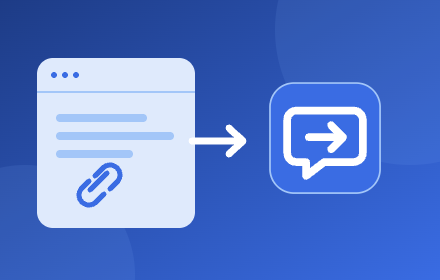
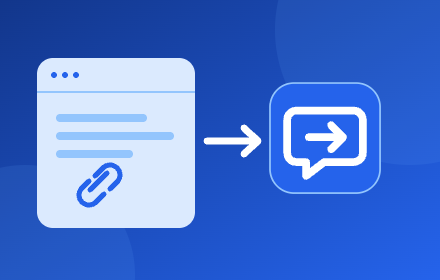
Enable automatic closing by default and center promotional arrow

Changed region(s): [[0.5023, 0.4286, 0.5909, 0.5714], [0.4136, 0.4857, 0.4727, 0.5429]]

diff --git a/tests/options.test.ts b/tests/options.test.ts
@@ -62,6 +62,41 @@ test("prompt defaults load without overwriting saved text or an intentionally em
   assert.equal(fields.optionalText.value, defaultPrompt);
 });
 
+test("automatic closing defaults load without writes and preserve saved choices across reloads", async () => {
+  let stored: Record<string, unknown> = {};
+  const storage: SettingsStorage = {
+    async get() { return stored; },
+    async set(items) { stored = items; }
+  };
+  const fields = optionsFields();
+  assert.equal(await loadOptions(fields, storage), true);
+  assert.equal(fields.autoClose.checked, true);
+  assert.equal(fields.autoClose.disabled, false);
+  assert.deepEqual(stored, {});
+
+  for (const autoClose of [false, true]) {
+    fields.autoClose.checked = autoClose;
+    assert.equal(await saveOptions(fields, storage, () => 0), true);
+    for (let reload = 0; reload < 2; reload++) {
+      const reopened = optionsFields();
+      assert.equal(await loadOptions(reopened, storage), true);
+      assert.equal(reopened.autoClose.checked, autoClose);
+    }
+  }
+
+  stored = { settings: { autoSubmit: false } };
+  assert.equal(await loadOptions(fields, storage), true);
+  assert.equal(fields.autoClose.checked, true);
+  assert.equal(fields.autoClose.disabled, true);
+  assert.deepEqual(stored, { settings: { autoSubmit: false } });
+
+  stored = {};
+  assert.equal(await loadOptions(fields, storage), true);
+  assert.equal(fields.autoClose.checked, true);
+  assert.equal(fields.autoClose.disabled, false);
+  assert.deepEqual(stored, {});
+});
+
 test("tracking cleanup help is associated with its checkbox", () => {
   const html = readFileSync("options.html", "utf8");
 

diff --git a/tests/prompt.test.ts b/tests/prompt.test.ts
@@ -198,9 +198,22 @@ test("missing or invalid persisted settings fall back safely", () => {
       placement: "prepend",
       stripTrackingParameters: true,
       autoSubmit: true,
-      autoClose: false
+      autoClose: true
     }
   );
+});
+
+test("automatic closing defaults on only when absent and preserves explicit choices", () => {
+  assert.equal(DEFAULT_SETTINGS.autoClose, true);
+  for (const settings of [undefined, {}, { autoSubmit: false }]) {
+    assert.equal(normalizeSettings(settings).autoClose, true);
+  }
+  for (const autoClose of [true, false]) {
+    assert.equal(normalizeSettings({ autoClose }).autoClose, autoClose);
+  }
+  for (const invalid of [null, "true", "false", 0, 1]) {
+    assert.equal(normalizeSettings({ autoClose: invalid as unknown as boolean }).autoClose, false);
+  }
 });
 
 test("automatic submission and closing settings are restored", () => {

diff --git a/tests/background.test.ts b/tests/background.test.ts
@@ -156,7 +156,6 @@ test("the background dispatch lifecycle binds, advances, and consumes state", as
     assert.ok(tabUpdatedListener);
     assert.ok(tabRemovedListener);
 
-    localSettings = { autoClose: true };
     actionClickListener({
       id: 10,
       url: "https://example.com/article?utm_source=newsletter&item=42#details"
@@ -179,6 +178,7 @@ test("the background dispatch lifecycle binds, advances, and consumes state", as
     const pending = dispatchEntries(session)[0];
     assert.ok(pending);
     assert.equal(pending.status, "pending");
+    assert.equal(pending.autoClose, true);
     assert.equal(pending.sourceTabId, 10);
     assert.equal(pending.targetTabId, 20);
     assert.equal(lastBadgeText(badgeUpdates, 10), "…");

diff --git a/src/prompt.ts b/src/prompt.ts
@@ -13,7 +13,7 @@ Keep the depth proportional to the material. Don't manufacture false balance or 
   placement: "prepend",
   stripTrackingParameters: true,
   autoSubmit: true,
-  autoClose: false
+  autoClose: true
 };
 
 const CHATGPT_BASE_URL = "https://chatgpt.com/";
@@ -112,7 +112,7 @@ export function normalizeSettings(value: Partial<Settings> | undefined): Setting
     placement: value?.placement === "append" ? "append" : "prepend",
     stripTrackingParameters: value?.stripTrackingParameters !== false,
     autoSubmit: value?.autoSubmit !== false,
-    autoClose: value?.autoClose === true
+    autoClose: value?.autoClose === undefined ? DEFAULT_SETTINGS.autoClose : value.autoClose === true
   };
 }
 

diff --git a/store/validation.md b/store/validation.md
@@ -1,11 +1,11 @@
 # Initial unlisted release preparation — validation record
 
-Recorded September 27, 2026 for version 0.1.0. This is local preparation, not store approval or a complete live ChatGPT release sign-off.
+Recorded September 27, 2026 for version 0.1.0, including the refined default prompt and automatic closing enabled by default. This is local preparation, not store approval or a complete live ChatGPT release sign-off.
 
 ## Artifact
 
 - Archive: `release/share-to-chatgpt-0.1.0.zip` (generated, ignored by Git).
[2 lines of base64/hex data omitted]
 - Contains 10 runtime files, with `manifest.json` at the root. No source maps, tests, development dependencies, privacy/store documents, or unrelated files.
 - Rebuilding can change the archive hash; verify the actual archive selected for upload.
 
@@ -13,31 +13,38 @@ Recorded September 27, 2026 for version 0.1.0. This is local preparation, not st
 
 Environment: macOS, Node.js v26.10.0, installed project dependencies, system `zip`/`unzip`. The README recommends Node.js LTS; this run used the existing Node installation and did not install or change dependencies.
 
-- Packaging TDD: the new regression test failed because `scripts/package.mjs` did not exist, then passed after implementation.
-- Packaging regression covers exact entries and file bytes, manifest resource inclusion, exclusion of unrelated files/source maps, replacement of stale archive entries, preservation of the previous archive on missing-file failure, and successful recovery.
-- `npm run check`: passed TypeScript, ESLint, all 82 unit tests, and production build.
-- `npm run test:composer-browser`: passed 119 checks in isolated Chrome/147.0.0.0, including native/fallback composer insertion and repeated/reset paths. This is not a signed-in ChatGPT test.
+- Packaging TDD: the regression test failed before implementation, then passed. It covers exact entries and file bytes, manifest resource inclusion, exclusion of unrelated files/source maps, replacement of stale archive entries, preservation of the previous archive on missing-file failure, and successful recovery.
+- Default-prompt changes: focused Options tests demonstrated red → green for the exact wording and preservation of existing custom/empty prompts.
+- Automatic-close default: focused prompt, Options, and background tests demonstrated red → green. Coverage includes absent settings, saved true/false, invalid values remaining disabled, no writes during loading, repeated reloads, reset, disabled automatic submission, and creation/arming of an auto-close dispatch with no saved settings.
+- `npm run check`: passed TypeScript, ESLint, all 84 unit tests, and production build.
 - `npm run package`: passed.
 - `unzip -t release/share-to-chatgpt-0.1.0.zip`: passed; all 10 entries checked.
-- PNG dimensions verified: icon 128×128 with transparent padding, promotion 440×280, Options screenshot 1280×800. All three images visually inspected.
 - `git diff --check`: passed.
+- Earlier `npm run test:composer-browser`: passed 119 checks in isolated Chrome/147.0.0.0 before the default changes. Not rerun for this settings change; composer reading/insertion code is unchanged. This is not a signed-in ChatGPT test.
 
 ## Actual archive in isolated Chromium
 
-Extracted the generated ZIP into a new temporary directory and loaded that directory as an unpacked extension in a fresh named browser session, without the user's profile or login state.
+Extracted the latest generated ZIP into a new temporary directory and loaded that directory as an unpacked extension in a fresh named browser session, without the user's profile or login state.
 
 - Extension enabled with zero reported manifest/runtime errors.
-- Real Options page loaded with the default prompt, cleanup on, submission on, and automatic closing off.
-- Saved a synthetic prompt and disabled submission through the UI; reloading retained both and disabled the dependent automatic-close control.
-- Saved an empty prompt and reloaded; it remained empty in both the UI and actual extension storage.
-- Removed only this test profile's settings, reloaded, and verified defaults returned.
-- No Options page errors recorded. Test sessions closed and temporary extraction removed.
+- Real Options page loaded with the default prompt, cleanup on, submission on, and automatic closing on, without writing settings to storage.
+- Saved automatic closing off through the UI; two reloads retained false in both the UI and actual extension storage.
+- Saved automatic closing on with automatic submission off; reload preserved both choices and disabled the closing control. Re-enabling submission made the control available again.
+- Removed only this test profile's settings, reloaded, and verified default-on behavior returned without writing settings.
+- No Options page errors recorded. Test session closed and temporary extraction removed.
+- Refreshed `store/screenshot-options.png` from this archive with default settings. It contains no assistant response or personal data.
+- PNG dimensions verified and images visually inspected: icon 128×128 with transparent padding, promotion 440×280, Options screenshot 1280×800. Icon is unchanged from initial preparation. The promotional arrow was shifted 15 pixels right to center it between the two graphics without overlapping the left card; the PNG was regenerated from `store/promo.svg` in isolated Chromium and visually checked.
 
-Before the final grammar refinement, after the requested default-prompt wording update, the focused Options tests were first confirmed red (old wording), then green (all four tests). `npm run check`, packaging, and ZIP integrity checks passed again. The rebuilt ZIP was extracted and loaded in a fresh isolated Chromium session with zero manifest/runtime errors; the Options page displayed the new recommendation sentence. The screenshot was refreshed from that actual archive with default settings and contains no assistant response or personal data. Earlier persistence/reset and 119 composer checks above were performed before this text-only update; they were not rerun in the browser.
+## Performance measurements
 
-Prompt benchmark: `npm run benchmark:prompt`, Node v26.10.0 on darwin/arm64, bundled production code, 30,000 warmup operations per scenario and seven samples of 300,000 operations. Before → after medians for the final grammar refinement (ns/operation): URL-only 105 → 105; single-line 114 → 115; multiline 124 → 124. These fixed-input scenarios do not measure the default prompt's changed length; prompt-construction logic is unchanged. Timing is separate from correctness validation.
+Separate from correctness checks, the unchanged observation/transition algorithms were measured before and after the automatic-close default change using bundled production code on the same macOS arm64 machine and Node v26.10.0:
 
-The final grammar refinement uses “recommend reading the original only if it adds substantial value beyond the summary.” Focused Options tests again demonstrated red → green; all 82 tests in `npm run check`, rebuilding the ZIP, and archive integrity checks passed. The artifact hash above identifies this latest archive. Browser checks and the screenshot predate this final text-only refinement; they were not repeated because no rendering, storage, insertion, or dispatch logic changed. The edited sentence is below the screenshot's visible textarea area.
+| Command | Fixed method | Before → after median |
+| --- | --- | --- |
+| `npm run benchmark:auto-close-observation` | 20,000 warmup observations, seven samples × 200,000 observations per scenario | Streaming after response start: 11 → 11 ns/observation; awaiting response start: 3,170 → 3,205 ns/observation |
+| `npm run benchmark:dispatch-policy` | 30,000 warmup transitions, seven samples × 300,000 transitions | Claim and arm: 27 → 27 ns/transition |
+
+These fixtures measure per-operation cost, not live ChatGPT latency or the additional observation work caused by enabling closing for users without a saved preference.
 
 ## Remaining release gates
 
@@ -48,4 +55,4 @@ Chrome Web Store work is deferred. Repository commits and pushes do not authoriz
 - [blocked] Developer account: no dashboard session was provided. Registration/payment, two-step verification, publisher identity, verified contact email, and intended regions require the publisher.
 - [blocked] Store upload/review/publication: no store item was created and no package or image was uploaded. These external actions require explicit approval after the remaining gates are resolved. Review the prepared data declarations against the dashboard's current definitions before certifying them.
 
-Only the default prompt text changed in extension runtime code; dispatch logic and permissions are unchanged. No live ChatGPT conversations were created, no credentials were accessed, and remote debugging was not enabled on the user's profile.
+Default prompt text and the automatic-close default changed; dispatch transitions, closing conditions, and permissions are unchanged. Saved boolean closing preferences are preserved; missing values default on and invalid values remain off. No live ChatGPT conversations were created, no credentials were accessed, and remote debugging was not enabled on the user's profile.

diff --git a/spec.md b/spec.md
@@ -48,11 +48,13 @@ Settings are stored under `settings` in `chrome.storage.local`.
 | `placement` | `"prepend" \| "append"` | `"prepend"` | Whether Prompt text appears before or after the URL. |
 | `stripTrackingParameters` | `boolean` | `true` | Whether known tracking parameters are removed before prompt construction. |
 | `autoSubmit` | `boolean` | `true` | Whether the verified prompt is submitted automatically. |
-| `autoClose` | `boolean` | `false` | Whether the target tab closes after ChatGPT assigns a canonical conversation URL and starts responding. Effective only when `autoSubmit` is enabled. |
+| `autoClose` | `boolean` | `true` | Whether the target tab closes after ChatGPT assigns a canonical conversation URL and starts responding. Effective only when `autoSubmit` is enabled. |
 
 A blank Prompt value produces only the cleaned or original target URL. Non-empty Prompt text and the URL are separated by one space. Surrounding whitespace is trimmed, but internal line breaks, blank lines, and indentation are preserved. CRLF and CR line endings are normalized to LF, not spaces.
 
 The storage key remains `optionalText` for compatibility with saved settings. Missing or non-string values use the default prompt; existing string values, including empty or whitespace-only strings, are preserved. Loading defaults does not write settings or overwrite saved preferences.
+
+Automatic closing defaults to on only when `autoClose` is absent or undefined. Saved boolean values, including `false`, are preserved; other invalid values keep automatic closing disabled. Loading defaults does not persist settings. Disabling automatic submission leaves the saved automatic-close preference intact but makes it ineffective.
 
 ### Default prompt
 
@@ -308,7 +310,7 @@ Run the cases relevant to a change and report which cases were verified in the c
 - Log out of ChatGPT or block the composer, dispatch again, and confirm no prompt is submitted, the tab remains open, and a red `!` badge or error appears.
 - Open an unrelated ChatGPT tab and confirm it does not auto-submit anything.
 - Disable automatic submission and confirm the correct prompt is prefilled but not submitted.
-- Enable automatic closing and confirm the background tab remains open on temporary paths such as `/c/local-chatgpt%3A<UUID>`, then closes after a canonical `/c/<UUID>` path appears while the enabled form-scoped Stop button is present, without waiting for assistant text or the full response. Reopen that exact conversation and verify it loads with a non-empty response.
+- In a fresh profile, confirm automatic closing is checked. Save it off, reload Options, and confirm it remains off. Disable automatic submission and confirm the closing control is disabled without losing its saved preference. With automatic submission on and the default automatic closing on, confirm the background tab remains open on temporary paths such as `/c/local-chatgpt%3A<UUID>`, then closes after a canonical `/c/<UUID>` path appears while the enabled form-scoped Stop button is present, without waiting for assistant text or the full response. Reopen that exact conversation and verify it loads with a non-empty response.
 - On the observed ChatGPT UI with a form-scoped contenteditable textbox and no composer ID, confirm one submission and automatic closing after a canonical `/c/<UUID>` path and new non-empty assistant markdown appear, even without a recognized Stop button or finalized message IDs.
 - Repeat with no deep-link prefill and confirm fallback insertion is recognized by ChatGPT, submitted once, and followed by early closing and successful reopening.
 - Confirm user text and empty assistant placeholders do not trigger closing; temporary conversation paths without a verified streaming-completion transition remain open.

diff --git a/store/listing.md b/store/listing.md
@@ -28,7 +28,7 @@ Make it your workflow:
 - Place the prompt before or after the URL, preserving line breaks.
 - Remove common tracking parameters while keeping other URL data. Turn cleanup off for signed or single-use links if needed.
 - Automatically submit the verified prompt, or turn submission off to leave it in the composer.
-- Optionally close the ChatGPT tab after a conversation URL is assigned and a response starts. Automatic closing is off by default and does not wait for the full answer or guarantee continued generation.
+- Optionally close the ChatGPT tab after a conversation URL is assigned and a response starts. Automatic closing is on by default for unsaved settings, can be disabled in Options, and does not wait for the full answer or guarantee continued generation.
 
 Getting started:
 1. Install and pin the extension.
@@ -93,7 +93,7 @@ Publish `PRIVACY.md` at a stable, publicly readable HTTPS URL and enter that URL
 
 Requires Chrome 120+ and the reviewer's own signed-in ChatGPT account. No extension account, API key, or developer credentials are required. Do not supply a personal ChatGPT password or cookies.
 
-1. Sign in to https://chatgpt.com/ normally. Open extension Options and set Prompt to `Reply with only OK.` to keep the test bounded. Leave automatic submission on and automatic closing off.
+1. Sign in to https://chatgpt.com/ normally. Open extension Options and set Prompt to `Reply with only OK.` to keep the test bounded. Leave automatic submission on and turn automatic closing off (both default to on).
 2. Open https://example.com/ and click the extension toolbar button once. The source tab should stay selected. One background ChatGPT tab should open and submit one prompt containing the instruction and URL. It should remain open.
 3. Use the link context menu on a public link, then test the configured shortcut with and without hovering a link. Each invocation should share the intended URL once. Chrome may reserve shortcuts; assign an available shortcut at chrome://extensions/shortcuts if needed.
 4. Turn automatic submission off and share again. The prompt should be prefilled, not submitted. Navigation still sends the prompt to ChatGPT.

diff --git a/README.md b/README.md
@@ -60,7 +60,9 @@ Reload the extension from `chrome://extensions` after rebuilding it.
 | Prompt | Summary and analysis instructions | Added before or after the URL. Can be empty to send only the URL. Preserves line breaks and blank lines; trims surrounding whitespace. |
 | Remove common tracking parameters from shared URLs | On | Removes the known parameters listed below while preserving other query parameters and fragments. |
 | Automatically submit the prompt | On | Turn off to prefill the composer without submitting. |
-| Close the ChatGPT tab after ChatGPT assigns a conversation URL and starts responding | Off | Closes after a canonical `/c/<UUID>` URL appears together with either ChatGPT's enabled form-scoped Stop button or a new non-empty assistant response. Does not wait for the full answer. If the canonical URL is unavailable, response completion is the fallback. Waits up to approximately two minutes. Requires automatic submission. |
+| Close the ChatGPT tab after ChatGPT assigns a conversation URL and starts responding | On | Closes after a canonical `/c/<UUID>` URL appears together with either ChatGPT's enabled form-scoped Stop button or a new non-empty assistant response. Does not wait for the full answer. If the canonical URL is unavailable, response completion is the fallback. Waits up to approximately two minutes. Requires automatic submission. |
+
+Automatic closing defaults to on when no value has been saved. Existing saved on/off choices are preserved. Turn it off in Options if you want the ChatGPT tab to stay open.
 
 The default prompt asks for a brief summary, evidence-aware analysis, caveats, and personal relevance. It applies when no prompt has been saved; existing saved prompts, including empty ones, remain unchanged. The exact default is documented in [spec.md](spec.md#default-prompt).
 

diff --git a/PRIVACY.md b/PRIVACY.md
@@ -30,7 +30,7 @@ Temporary dispatch payloads are removed after completion, final failure, or clos
 
 The prompt-bearing navigation URL may be retained in browser history or by ChatGPT. Removing local extension data, uninstalling the extension, or closing a ChatGPT tab does not delete browser history or ChatGPT conversations. Manage those separately through Chrome and ChatGPT.
 
-You can disable automatic submission, automatic closing, or tracking-parameter cleanup in Options. Automatic submission is on by default; automatic closing is off by default. Do not share confidential URLs, private document links, passwords, access tokens, or sensitive prompt text. Tracking-parameter cleanup removes only a fixed list of tracking parameters; it is not a sensitive-data scrubber. Local extension storage is not a password vault and the extension does not add its own encryption to that storage.
+You can disable automatic submission, automatic closing, or tracking-parameter cleanup in Options. Automatic submission and automatic closing are on by default when no preferences have been saved. Existing saved on/off choices are preserved. Automatic closing requires automatic submission and does not wait for the full answer or guarantee continued generation. Do not share confidential URLs, private document links, passwords, access tokens, or sensitive prompt text. Tracking-parameter cleanup removes only a fixed list of tracking parameters; it is not a sensitive-data scrubber. Local extension storage is not a password vault and the extension does not add its own encryption to that storage.
 
 ## Limited Use
 
